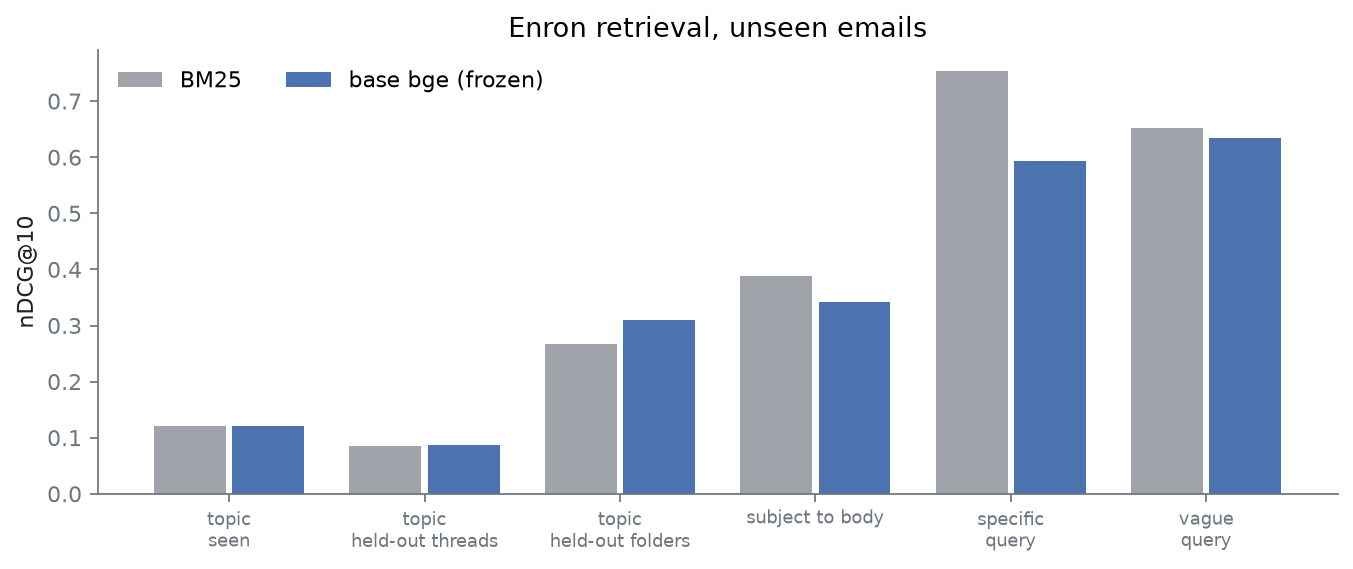
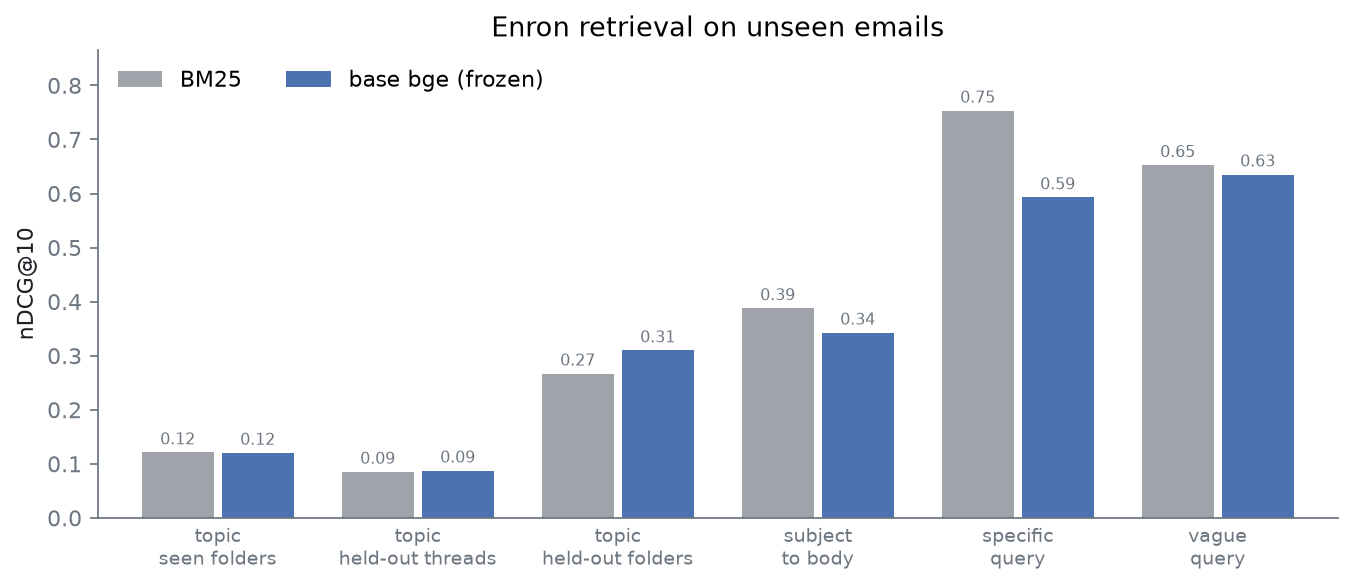
architecture diagram, cleaner charts

diff --git a/scripts/make_figures.py b/scripts/make_figures.py
@@ -75,21 +75,28 @@ def fig_eval(runs):
     tasks = list(metrics)
     models = list(dict.fromkeys(m for t in tasks for m in metrics[t]))
     w = 0.8 / len(models)
-    fig, ax = plt.subplots(figsize=(10, 3.6))
+    fig, ax = plt.subplots(figsize=(10, 3.8))
     for i, model in enumerate(models):
-        xs = [t + i * w for t in range(len(tasks))]
+        xs = [t - 0.4 + w * (i + 0.5) for t in range(len(tasks))]
         ys = [metrics[t].get(model, 0) for t in tasks]
-        ax.bar(xs, ys, w * 0.92, color=MODEL_COLORS.get(model, RED), label=MODEL_NAMES.get(model, model))
-    labels = {"topic_seen": "topic\nseen", "topic_heldthread": "topic\nheld-out threads",
-              "topic_heldfolder": "topic\nheld-out folders", "subject_heldthread": "subject to body",
+        bars = ax.bar(xs, ys, w * 0.9, color=MODEL_COLORS.get(model, RED), label=MODEL_NAMES.get(model, model))
+        ax.bar_label(bars, fmt="%.2f", fontsize=7, color=MUTED, padding=2)
+    labels = {"topic_seen": "topic\nseen folders", "topic_heldthread": "topic\nheld-out threads",
+              "topic_heldfolder": "topic\nheld-out folders", "subject_heldthread": "subject\nto body",
               "grok_query_test": "specific\nquery", "grok_vague_test": "vague\nquery"}
-    ax.set_xticks([t + 0.4 - w / 2 for t in range(len(tasks))], [labels.get(t, t) for t in tasks], fontsize=8)
-    ax.set(ylabel="nDCG@10", title="Enron retrieval, unseen emails")
-    ax.legend(frameon=False, ncol=len(models))
+    ax.set_xticks(range(len(tasks)), [labels.get(t, t) for t in tasks], fontsize=8.5)
+    ax.tick_params(axis="x", length=0)
+    ax.set_xlim(-0.6, len(tasks) - 0.4)
+    ax.set_ylim(0, max(max(v.values()) for v in metrics.values()) * 1.15)
+    ax.set(ylabel="nDCG@10", title="Enron retrieval on unseen emails")
+    ax.legend(frameon=False, ncol=len(models), loc="upper left")
     save(fig, "eval_enron.png")
 
 
 def fig_search(api):
+    """Three ranked lists side by side, drawn as rows so every label sits inside its own row."""
+    from matplotlib.patches import FancyBboxPatch
+
     try:
         res = {m: httpx.post(f"{api}/api/search", json={"query": "coding competition", "mode": m, "k": 8},
                              timeout=60).json() for m in ("keyword", "embed", "region")}
@@ -97,24 +104,37 @@ def fig_search(api):
         print("skip search figure:", e)
         return
     fixture = {json.loads(l)["id"]: json.loads(l)["topic"] for l in open(ROOT / "tests/fixtures/mailbox.jsonl")}
-    fig, axes = plt.subplots(1, 3, figsize=(13, 3.8))
-    fig.subplots_adjust(wspace=0.95)
     titles = {"keyword": "Keyword (BM25)", "embed": "Embedding (cosine)", "region": "Region (Grok facets + z)"}
-    for ax, (mode, r) in zip(axes, res.items()):
+    fig, ax = plt.subplots(figsize=(12, 4.6))
+    ax.set_xlim(0, 3)
+    ax.set_ylim(0, 9.6)
+    ax.axis("off")
+    for c, (mode, r) in enumerate(res.items()):
         hits = r.get("hits", [])[:8]
-        ys = [7 - i for i in range(len(hits))]  # rank 1 on top, empty slots stay empty
-        colors = [RED if fixture.get(h["id"]) in ("hackathon", "contest")
-                  else (INK if "HackerRank" in (h["from"] or "") else GRAY) for h in hits]
-        ax.barh(ys, [8 - i for i in range(len(hits))], color=colors)
-        ax.set_yticks(ys, [h["subject"][:34] for h in hits], fontsize=7.5)
-        ax.set_xticks([])
-        ax.set_xlim(0, 8.4)
-        ax.set_ylim(-0.6, 7.6)
-        ax.set_title(f"{titles[mode]}: {sum(c == RED for c in colors)}/8 relevant", fontsize=10)
+        good = sum(fixture.get(h["id"]) in ("hackathon", "contest") for h in hits)
+        ax.text(c + 0.5, 9.15, titles[mode], ha="center", fontsize=11, weight="bold", color=INK)
+        ax.text(c + 0.5, 8.7, f"{good} of 8 on topic", ha="center", fontsize=9, color=RED if good >= 6 else MUTED)
+        for i in range(8):
+            y = 7.75 - i
+            if i >= len(hits):
+                ax.add_patch(FancyBboxPatch((c + 0.04, y), 0.92, 0.78, boxstyle="round,pad=0,rounding_size=0.06",
+                                            fc="none", ec="#d8dee4", lw=0.8, ls=(0, (3, 3))))
+                continue
+            h = hits[i]
+            topic = fixture.get(h["id"])
+            job = "HackerRank" in (h["from"] or "")
+            fc = RED if topic in ("hackathon", "contest") else (INK if job else "#eef0f2")
+            tc = "white" if topic in ("hackathon", "contest") or job else INK
+            ax.add_patch(FancyBboxPatch((c + 0.04, y), 0.92, 0.78, boxstyle="round,pad=0,rounding_size=0.06",
+                                        fc=fc, ec="none"))
+            ax.text(c + 0.08, y + 0.39, f"{i + 1}", va="center", fontsize=8.5, color=tc, weight="bold")
+            subj = h["subject"] if len(h["subject"]) <= 36 else h["subject"][:35] + "..."
+            ax.text(c + 0.15, y + 0.39, subj, va="center", fontsize=8.5, color=tc)
         if not hits:
-            ax.text(0.5, 0.5, "no keyword match", ha="center", va="center", transform=ax.transAxes, color=MUTED)
-    fig.suptitle('"coding competition" on the demo inbox (red: contest or hackathon, black: job assessment)',
-                 fontsize=10, color=INK)
+            ax.text(c + 0.5, 4.2, "no keyword match", ha="center", color=MUTED)
+    ax.text(1.5, 0.05, "red: contest or hackathon     black: HackerRank job assessment (the trap)     gray: other",
+            ha="center", fontsize=8.5, color=MUTED)
+    fig.suptitle('Top 8 for "coding competition" on the demo inbox', fontsize=12, color=INK, y=0.99)
     save(fig, "search_modes.png")
 
 
@@ -129,19 +149,139 @@ def fig_related(api):
     except httpx.HTTPError as e:
         print("skip related figure:", e)
         return
-    fig, ax = plt.subplots(figsize=(10, 3.4))
-    xs = range(len(rows))
-    ax.bar(xs, [r[2] for r in rows], color=[RED if r[1] == "present" else GRAY for r in rows])
-    ax.axhline(3.0, color=INK, lw=1, ls="--")
-    ax.text(9.5, 3.15, "related threshold z = 3", ha="center", fontsize=8, color=INK)
-    for x, r in zip(xs, rows):
-        ok = r[3] == (r[1] == "present")
-        ax.text(x, max(r[2], 0) + 0.25, "ok" if ok else "miss", ha="center", fontsize=7, color=INK if ok else RED)
-    ax.set_xticks(list(xs), [r[0] for r in rows], rotation=55, ha="right", fontsize=7.5)
+    rows.sort(key=lambda r: r[2])
+    fig, ax = plt.subplots(figsize=(8, 6))
+    ys = range(len(rows))
+    ax.barh(ys, [r[2] for r in rows], color=[RED if r[1] == "present" else GRAY for r in rows], height=0.7)
+    ax.axvline(0, color=MUTED, lw=0.8)
+    ax.axvline(3.0, color=INK, lw=1.2, ls="--")
+    for y, r in zip(ys, rows):
+        if r[3] != (r[1] == "present"):
+            ax.text(max(r[2], 0) + 0.15, y, "wrong", va="center", fontsize=8, color=RED, weight="bold")
+    ax.set_yticks(list(ys), [r[0] for r in rows], fontsize=9)
+    ax.tick_params(axis="y", length=0)
+    ax.spines["left"].set_visible(False)
     acc = sum(r[3] == (r[1] == "present") for r in rows)
-    ax.set(ylabel="max hub-corrected z", title=f'"Is this topic in my inbox?" {acc}/{len(rows)} correct '
-                                                 "(red: present, gray: absent)")
+    ax.set_xlabel("strongest hub-corrected z in the inbox")
+    ax.set_title(f'"Is this topic in my inbox?"  {acc} of {len(rows)} correct', fontsize=11, color=INK, loc="left")
+    from matplotlib.lines import Line2D
+    from matplotlib.patches import Patch
+    ax.legend(handles=[Patch(color=RED, label="topic is in the inbox"), Patch(color=GRAY, label="topic is not"),
+                       Line2D([], [], color=INK, ls="--", label="related threshold z = 3")],
+              frameon=False, loc="lower right", fontsize=8.5)
     save(fig, "related_calibration.png")
+
+
+def fig_architecture():
+    """Embedding and region architecture. Gray hatched = frozen, red = trained."""
+    from matplotlib.patches import FancyArrowPatch, FancyBboxPatch
+
+    fig, ax = plt.subplots(figsize=(13, 7.2))
+    ax.set_xlim(0, 130)
+    ax.set_ylim(0, 72)
+    ax.axis("off")
+    FROZEN, TRAIN, DATA = "#e9ecef", "#f6d5d5", "white"
+
+    def box(x, y, w, h, text, kind="data", size=9, weight="normal"):
+        fc = {"frozen": FROZEN, "train": TRAIN, "data": DATA, "loss": "white"}[kind]
+        ec = {"frozen": "#8c959f", "train": RED, "data": "#8c959f", "loss": INK}[kind]
+        ax.add_patch(FancyBboxPatch((x, y), w, h, boxstyle="round,pad=0,rounding_size=1.2", fc=fc, ec=ec,
+                                    lw=1.6 if kind == "loss" else 1.2, hatch="////" if kind == "frozen" else None))
+        ax.text(x + w / 2, y + h / 2, text, ha="center", va="center", fontsize=size, color=INK, weight=weight,
+                bbox=dict(fc=fc, ec="none", pad=0.5) if kind == "frozen" else None)
+
+    def arrow(x1, y1, x2, y2, color=INK, style="-|>", ls="-"):
+        ax.add_patch(FancyArrowPatch((x1, y1), (x2, y2), arrowstyle=style, mutation_scale=12, color=color,
+                                     lw=1.2, ls=ls, shrinkA=0, shrinkB=0))
+
+    # panel titles
+    ax.text(2, 69.5, "Stage A: atlas-embed", fontsize=13, weight="bold", color=INK)
+    ax.text(2, 66.6, "frozen bge-base backbone, trainable LoRA, Matryoshka heads, frozen teacher", fontsize=9,
+            color=MUTED)
+    ax.text(84, 69.5, "Stage B: atlas-region", fontsize=13, weight="bold", color=INK)
+    ax.text(84, 66.6, "Set Transformer over Grok facets, outputs a calibrated region", fontsize=9, color=MUTED)
+    ax.plot([80, 80], [4, 70], color="#d0d7de", lw=1)
+
+    # inputs
+    box(2, 55, 22, 7, "query side\nfacet / Grok query\n+ bge query prefix", "data", 8.5)
+    box(27, 55, 22, 7, "doc side\nsubject + sender\n+ cleaned body", "data", 8.5)
+    arrow(13, 55, 22, 50.5)
+    arrow(38, 55, 31, 50.5)
+
+    # frozen backbone with LoRA
+    ax.add_patch(FancyBboxPatch((4, 22), 46, 28, boxstyle="round,pad=0,rounding_size=1.5", fc=FROZEN,
+                                ec="#8c959f", lw=1.2, hatch="////"))
+    ax.text(27, 47.6, "bge-base-en-v1.5   FROZEN   110M params", ha="center", fontsize=9.5, weight="bold",
+            color=INK, bbox=dict(fc=FROZEN, ec="none", pad=0.6))
+    for i in range(4):
+        y = 41 - i * 4.6
+        label = "transformer layer " + ("12" if i == 0 else "11" if i == 1 else "..." if i == 2 else "1")
+        ax.add_patch(FancyBboxPatch((7, y), 26, 3.4, boxstyle="round,pad=0,rounding_size=0.6", fc="white",
+                                    ec="#8c959f", lw=0.9))
+        ax.text(20, y + 1.7, label, ha="center", va="center", fontsize=8, color=INK)
+        ax.add_patch(FancyBboxPatch((35, y), 12.5, 3.4, boxstyle="round,pad=0,rounding_size=0.6", fc=TRAIN,
+                                    ec=RED, lw=1.1))
+        ax.text(41.25, y + 1.7, "LoRA r=16", ha="center", va="center", fontsize=7.5, color=RED, weight="bold")
+        ax.plot([33, 35], [y + 1.7, y + 1.7], color=RED, lw=1)
+    ax.text(27, 23.6, "LoRA on attention q, k, v, o:  W x + B A x,  1.18M trainable", ha="center", fontsize=8.5,
+            color=RED, bbox=dict(fc=FROZEN, ec="none", pad=0.5))
+
+    # pooling and matryoshka
+    arrow(27, 22, 27, 19)
+    box(17, 14.5, 20, 4.5, "CLS token, L2 normalize", "data", 8.5)
+    arrow(27, 14.5, 27, 12)
+    for i, (dim, w) in enumerate([(768, 40), (256, 22), (64, 9)]):
+        ax.add_patch(FancyBboxPatch((7, 8.4 - i * 2.6), w, 2.0, boxstyle="round,pad=0,rounding_size=0.4",
+                                    fc=RED, ec="none", alpha=0.35 + 0.25 * i))
+        ax.text(7 + w + 1, 9.4 - i * 2.6, f"{dim} d", va="center", fontsize=8, color=INK)
+    ax.text(37.5, 5.2, "Matryoshka: every prefix\nis a usable embedding", fontsize=8, color=MUTED, va="center")
+
+    # teacher
+    box(55, 49, 22, 13, "bge-reranker-v2-m3\ncross-encoder\nFROZEN teacher", "frozen", 9, "bold")
+    arrow(49, 58.5, 55, 57)
+    ax.text(66, 46.5, "scores (query, candidate)\nfor 32 mined candidates", fontsize=8, color=MUTED, ha="center",
+            va="top")
+
+    # losses
+    box(55, 30, 22, 9, "KL( teacher || student )\nlistwise distillation", "loss", 8.5)
+    box(55, 13, 22, 9, "InfoNCE per dim\nin-batch + hard negatives", "loss", 8.5)
+    arrow(66, 42.5, 66, 39, color=MUTED, ls="--")
+    arrow(53, 9.4, 55, 17.5, color=INK)
+    arrow(53, 9.4, 55, 34.5, color=INK)
+    ax.text(66, 26, "teacher also drops\nfalse negatives", fontsize=7.5, color=MUTED, ha="center", va="center")
+
+    # region side
+    chips = [("hackathon", 1), ("Codeforces round", 1), ("ICPC regional", 1), ("not: job interview", 0)]
+    for i, (c, pos) in enumerate(chips):
+        x = 84 + (i % 2) * 22
+        y = 59 - (i // 2) * 4.2
+        ax.add_patch(FancyBboxPatch((x, y), 20, 3.2, boxstyle="round,pad=0,rounding_size=1.4",
+                                    fc="white", ec=RED if pos else INK, lw=1.1, ls="-" if pos else "--"))
+        ax.text(x + 10, y + 1.6, c, ha="center", va="center", fontsize=8, color=RED if pos else INK)
+    ax.text(106, 63.5, "Grok facet set (1 to 8 positive, 0 to 3 negative)", ha="center", fontsize=8, color=MUTED)
+    arrow(106, 54.5, 106, 51.5)
+    box(88, 45.5, 36, 6, "atlas-embed (frozen) + type embedding", "frozen", 8.5)
+    arrow(106, 45.5, 106, 42.5)
+    box(92, 36.5, 28, 6, "ISAB x2  (16 inducing points)", "train", 9)
+    arrow(106, 36.5, 106, 33.5)
+    box(92, 27.5, 28, 6, "PMA  (K = 4 seeds)", "train", 9)
+    arrow(106, 27.5, 106, 24.5)
+    box(84, 17, 44, 7.5, "region: anchors a1..a4, temperatures tau_k, bias b", "data", 8.5)
+    arrow(106, 17, 106, 14)
+    box(84, 6, 44, 8, "m(e) = logsumexp_k( tau_k cos(e, a_k) ) - b\nP(member) = sigmoid( (m - shift) / T )", "loss",
+        8.5)
+    ax.text(106, 2.6, "BCE on members vs nearest non-members, negative-phrase term, teacher KL;\n"
+            "T and shift fit on validation at the real 0.1% base rate", ha="center", fontsize=7.5, color=MUTED)
+
+    # legend
+    for i, (label, kind) in enumerate([("frozen", "frozen"), ("trained", "train"), ("loss / output", "loss")]):
+        x = 2 + i * 17
+        ax.add_patch(FancyBboxPatch((x, 0.8), 3.5, 2.2, boxstyle="round,pad=0,rounding_size=0.5",
+                                    fc={"frozen": FROZEN, "train": TRAIN, "loss": "white"}[kind],
+                                    ec={"frozen": "#8c959f", "train": RED, "loss": INK}[kind],
+                                    hatch="////" if kind == "frozen" else None))
+        ax.text(x + 4.5, 1.9, label, va="center", fontsize=8.5, color=INK)
+    save(fig, "architecture.png")
 
 
 if __name__ == "__main__":
@@ -149,6 +289,7 @@ if __name__ == "__main__":
     ap.add_argument("--runs", default=str(ROOT / "data/runs"))
     ap.add_argument("--api", default="http://localhost:8765")
     a = ap.parse_args()
+    fig_architecture()
     fig_training(Path(a.runs))
     fig_eval(Path(a.runs))
     fig_search(a.api)

diff --git a/README.md b/README.md
@@ -114,6 +114,10 @@ Hub correction matters because newsletters and long promotional emails sit close
 
 ### atlas-embed: the encoder
 
+<p align="center"><img src="assets/architecture.png" width="900" alt="Embedding architecture: frozen bge-base backbone with LoRA adapters, Matryoshka heads, frozen cross-encoder teacher, and the Set Transformer region model" /></p>
+
+Gray hatched blocks are frozen, red blocks are trained. Stage A trains only the LoRA adapters; stage B freezes the whole encoder and trains only the Set Transformer.
+
 ```
 email text --> [ FROZEN bge-base-en-v1.5, 110M ] + LoRA r=16 on q,k,v,o (1.18M trainable) --> CLS --> L2
                                                                                                   |
